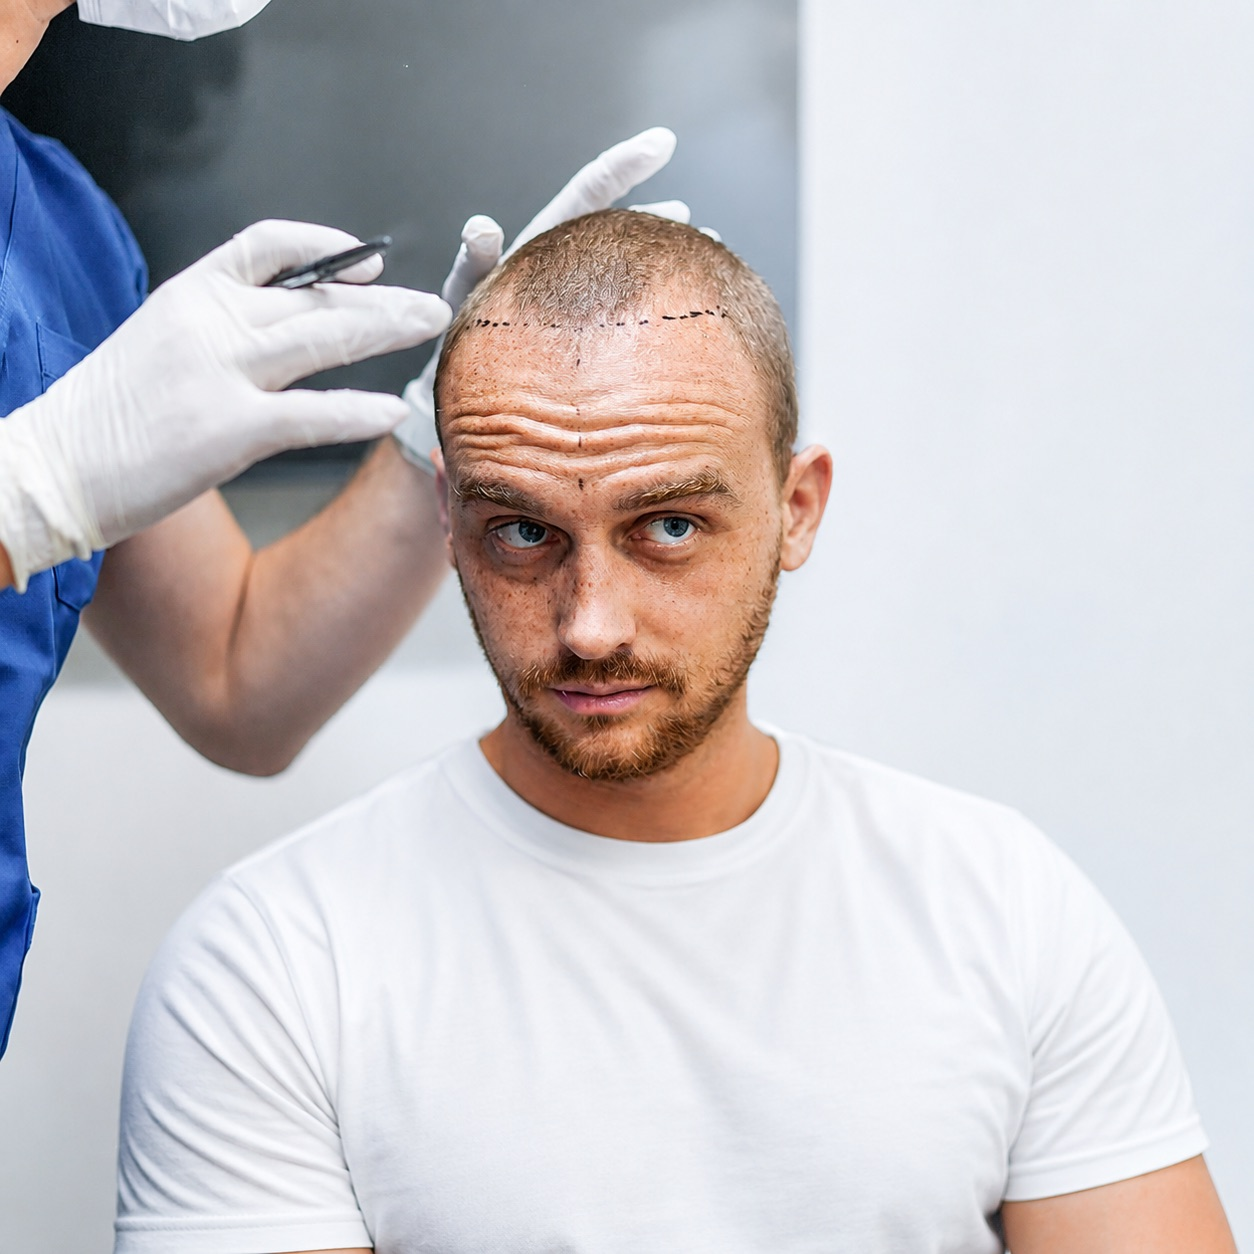
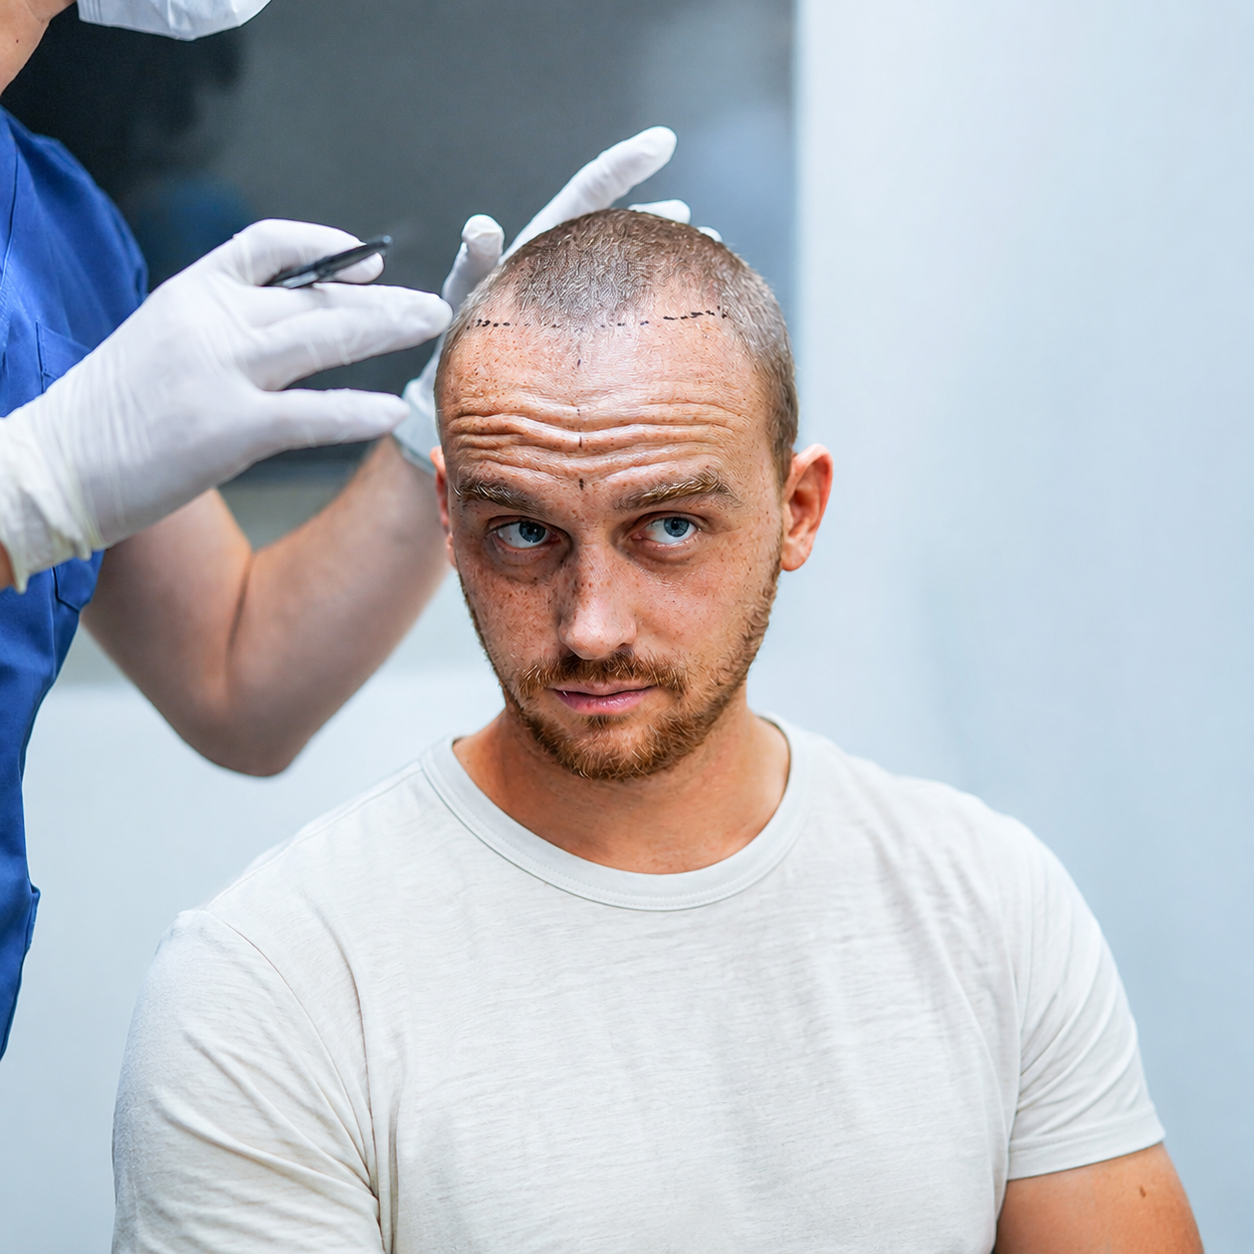
Show hero photo first on mobile, turn case gallery into a carousel
- Hero image now renders above the copy on mobile via order:-1, so the
  patient photo leads instead of trailing the heading and text
- Vorher & Nachher cards become a scroll-snap carousel with prev/next
  arrows that advance two cards at a time (one at the narrowest widths)
- Arrow offset stays inside the container below 1061px to avoid
  horizontal overflow, and sits outside it on wide desktop

diff --git a/index.html b/index.html
@@ -255,6 +255,9 @@
       <symbol id="icon-close" viewBox="0 0 24 24">
         <path d="M6 6l12 12M18 6 6 18" />
       </symbol>
+      <symbol id="icon-chevron" viewBox="0 0 24 24">
+        <path d="M9 6l6 6-6 6" />
+      </symbol>
       <!-- Offizielle WhatsApp-Wortbildmarke (Quelle: Meta Brand Resources) -->
       <symbol id="icon-whatsapp" viewBox="0 0 24 24">
         <path d="M17.472 14.382c-.297-.149-1.758-.867-2.03-.967-.273-.099-.471-.148-.67.15-.197.297-.767.966-.94 1.164-.173.199-.347.223-.644.075-.297-.15-1.255-.463-2.39-1.475-.883-.788-1.48-1.761-1.653-2.059-.173-.297-.018-.458.13-.606.134-.133.298-.347.446-.52.149-.174.198-.298.298-.497.099-.198.05-.371-.025-.52-.075-.149-.669-1.612-.916-2.207-.242-.579-.487-.5-.669-.51-.173-.008-.371-.01-.57-.01-.198 0-.52.074-.792.372-.272.297-1.04 1.016-1.04 2.479 0 1.462 1.065 2.875 1.213 3.074.149.198 2.096 3.2 5.077 4.487.709.306 1.262.489 1.694.625.712.227 1.36.195 1.871.118.571-.085 1.758-.719 2.006-1.413.248-.694.248-1.289.173-1.413-.074-.124-.272-.198-.57-.347m-5.421 7.403h-.004a9.87 9.87 0 01-5.031-1.378l-.361-.214-3.741.982.998-3.648-.235-.374a9.86 9.86 0 01-1.51-5.26c.001-5.45 4.436-9.884 9.888-9.884 2.64 0 5.122 1.03 6.988 2.898a9.825 9.825 0 012.893 6.994c-.003 5.45-4.437 9.884-9.885 9.884m8.413-18.297A11.815 11.815 0 0012.05 0C5.495 0 .16 5.335.157 11.892c0 2.096.547 4.142 1.588 5.945L.057 24l6.305-1.654a11.882 11.882 0 005.683 1.448h.005c6.554 0 11.89-5.335 11.893-11.893a11.821 11.821 0 00-3.48-8.413Z" />
@@ -389,61 +392,70 @@
             </p>
           </div>
 
-          <!-- Fallkarten wie Produktkarten: Foto zuerst, dann Methode, Graftzahl, Zeitraum. -->
-          <div class="card-grid card-grid--3">
-            <article class="card">
-              <img class="card__media" src="assets/images/case-3312.webp" alt="Vorher-Nachher-Beispiel einer Haartransplantation mit 3312 Grafts" loading="lazy" decoding="async" />
-              <div class="card__body">
-                <div class="card__foot">
-                  <button
-                    type="button"
-                    class="link-trigger"
-                    data-lead-trigger
-                    data-topic="Fallbeispiel 01 – DHI, 3.312 Grafts"
-                    data-heading="Vergleichbaren Fall besprechen"
-                    data-subtext="Wir ordnen dieses Beispiel für Ihre Ausgangslage ein."
-                  >
-                    Fall besprechen
-                  </button>
+          <!-- Fallkarten als kaydırılabilir Carousel: zwei Karten pro Bildschirm, per Pfeile weiterschaltbar. -->
+          <div class="case-carousel">
+            <div class="case-carousel__track" data-case-track>
+              <article class="card case-carousel__slide">
+                <img class="card__media" src="assets/images/case-3312.webp" alt="Vorher-Nachher-Beispiel einer Haartransplantation mit 3312 Grafts" loading="lazy" decoding="async" />
+                <div class="card__body">
+                  <div class="card__foot">
+                    <button
+                      type="button"
+                      class="link-trigger"
+                      data-lead-trigger
+                      data-topic="Fallbeispiel 01 – DHI, 3.312 Grafts"
+                      data-heading="Vergleichbaren Fall besprechen"
+                      data-subtext="Wir ordnen dieses Beispiel für Ihre Ausgangslage ein."
+                    >
+                      Fall besprechen
+                    </button>
+                  </div>
                 </div>
-              </div>
-            </article>
+              </article>
 
-            <article class="card">
-              <img class="card__media" src="assets/images/case-3577.webp" alt="Vorher-Nachher-Beispiel einer Haartransplantation mit 3577 Grafts" loading="lazy" decoding="async" />
-              <div class="card__body">
-                <div class="card__foot">
-                  <button
-                    type="button"
-                    class="link-trigger"
-                    data-lead-trigger
-                    data-topic="Fallbeispiel 02 – DHI, 3.577 Grafts"
-                    data-heading="Vergleichbaren Fall besprechen"
-                    data-subtext="Wir ordnen dieses Beispiel für Ihre Ausgangslage ein."
-                  >
-                    Fall besprechen
-                  </button>
+              <article class="card case-carousel__slide">
+                <img class="card__media" src="assets/images/case-3577.webp" alt="Vorher-Nachher-Beispiel einer Haartransplantation mit 3577 Grafts" loading="lazy" decoding="async" />
+                <div class="card__body">
+                  <div class="card__foot">
+                    <button
+                      type="button"
+                      class="link-trigger"
+                      data-lead-trigger
+                      data-topic="Fallbeispiel 02 – DHI, 3.577 Grafts"
+                      data-heading="Vergleichbaren Fall besprechen"
+                      data-subtext="Wir ordnen dieses Beispiel für Ihre Ausgangslage ein."
+                    >
+                      Fall besprechen
+                    </button>
+                  </div>
                 </div>
-              </div>
-            </article>
+              </article>
 
-            <article class="card">
-              <img class="card__media" src="assets/images/case-4176.webp" alt="Vorher-Nachher-Beispiel einer Haartransplantation mit 4716 Grafts" loading="lazy" decoding="async" />
-              <div class="card__body">
-                <div class="card__foot">
-                  <button
-                    type="button"
-                    class="link-trigger"
-                    data-lead-trigger
-                    data-topic="Fallbeispiel 03 – Unique FUE, 4.716 Grafts"
-                    data-heading="Vergleichbaren Fall besprechen"
-                    data-subtext="Wir ordnen dieses Beispiel für Ihre Ausgangslage ein."
-                  >
-                    Fall besprechen
-                  </button>
+              <article class="card case-carousel__slide">
+                <img class="card__media" src="assets/images/case-4176.webp" alt="Vorher-Nachher-Beispiel einer Haartransplantation mit 4716 Grafts" loading="lazy" decoding="async" />
+                <div class="card__body">
+                  <div class="card__foot">
+                    <button
+                      type="button"
+                      class="link-trigger"
+                      data-lead-trigger
+                      data-topic="Fallbeispiel 03 – Unique FUE, 4.716 Grafts"
+                      data-heading="Vergleichbaren Fall besprechen"
+                      data-subtext="Wir ordnen dieses Beispiel für Ihre Ausgangslage ein."
+                    >
+                      Fall besprechen
+                    </button>
+                  </div>
                 </div>
-              </div>
-            </article>
+              </article>
+            </div>
+
+            <button type="button" class="case-carousel__nav case-carousel__nav--prev" data-case-prev aria-label="Vorherige Fälle anzeigen">
+              <svg class="icon" aria-hidden="true"><use href="#icon-chevron"></use></svg>
+            </button>
+            <button type="button" class="case-carousel__nav case-carousel__nav--next" data-case-next aria-label="Weitere Fälle anzeigen">
+              <svg class="icon" aria-hidden="true"><use href="#icon-chevron"></use></svg>
+            </button>
           </div>
 
           <div class="caption-box">

diff --git a/styles.css b/styles.css
@@ -1359,6 +1359,78 @@ h4 {
 }
 
 /* ===========================================================================
+   VORHER & NACHHER – kaydırılabilir Carousel, zwei Karten pro Ansicht
+   =========================================================================== */
+.case-carousel {
+  position: relative;
+}
+
+.case-carousel__track {
+  display: grid;
+  grid-auto-flow: column;
+  grid-auto-columns: calc(50% - var(--gap) / 2);
+  gap: var(--gap);
+  overflow-x: auto;
+  scroll-snap-type: x mandatory;
+  scroll-padding-left: 0;
+  scrollbar-width: none;
+}
+
+.case-carousel__track::-webkit-scrollbar {
+  display: none;
+}
+
+.case-carousel__slide {
+  scroll-snap-align: start;
+  min-width: 0;
+}
+
+.case-carousel__nav {
+  position: absolute;
+  top: 50%;
+  z-index: 2;
+  display: inline-flex;
+  align-items: center;
+  justify-content: center;
+  width: 40px;
+  height: 40px;
+  transform: translateY(-50%);
+  border: 1px solid var(--border-strong);
+  border-radius: 999px;
+  background: var(--surface);
+  color: var(--deep-teal);
+  cursor: pointer;
+}
+
+.case-carousel__nav:hover {
+  background: var(--surface-alt);
+  border-color: var(--deep-teal);
+}
+
+.case-carousel__nav--prev {
+  left: 8px;
+}
+
+.case-carousel__nav--next {
+  right: 8px;
+}
+
+/* Ab hier ist links/rechts vom Container genug Luft, um die Pfeile nach außen zu setzen. */
+@media (min-width: 1061px) {
+  .case-carousel__nav--prev {
+    left: -20px;
+  }
+
+  .case-carousel__nav--next {
+    right: -20px;
+  }
+}
+
+.case-carousel__nav--prev .icon {
+  transform: rotate(180deg);
+}
+
+/* ===========================================================================
    CTA-BÄNDER
    Hell ist der Standard. Dunkel genau einmal, vor den Preisen.
    =========================================================================== */
@@ -2512,6 +2584,11 @@ mark.todo {
     grid-template-columns: 1fr;
   }
 
+  /* Das Klinikfoto steht mobil vor dem Text, nicht danach. */
+  .hero__aside {
+    order: -1;
+  }
+
   .patient-video-frame,
   .trustpilot-digest__intro {
     border-right: 0;
@@ -2711,6 +2788,23 @@ mark.todo {
 @media (max-width: 560px) {
   .container {
     width: min(100% - 22px, var(--container));
+  }
+
+  .case-carousel__track {
+    grid-auto-columns: calc(85% - var(--gap) / 2);
+  }
+
+  .case-carousel__nav {
+    width: 34px;
+    height: 34px;
+  }
+
+  .case-carousel__nav--prev {
+    left: 4px;
+  }
+
+  .case-carousel__nav--next {
+    right: 4px;
   }
 
   .masthead {

diff --git a/script.js b/script.js
@@ -49,6 +49,24 @@ if ((mobileCta || waFloat) && heroSection && "IntersectionObserver" in window) {
   }
 }
 
+/* Vorher-Nachher-Carousel: pro Klick um zwei Kartenbreiten weiterscrollen. */
+const caseTrack = document.querySelector("[data-case-track]");
+const casePrev = document.querySelector("[data-case-prev]");
+const caseNext = document.querySelector("[data-case-next]");
+
+if (caseTrack && casePrev && caseNext) {
+  const scrollByCards = (direction) => {
+    const slide = caseTrack.querySelector(".case-carousel__slide");
+    if (!slide) return;
+    const gap = parseFloat(getComputedStyle(caseTrack).columnGap) || 0;
+    const step = (slide.getBoundingClientRect().width + gap) * 2;
+    caseTrack.scrollBy({ left: direction * step, behavior: "smooth" });
+  };
+
+  casePrev.addEventListener("click", () => scrollByCards(-1));
+  caseNext.addEventListener("click", () => scrollByCards(1));
+}
+
 document.querySelectorAll("[data-video-embed]").forEach((button) => {
   button.addEventListener("click", () => {
     const videoId = button.dataset.videoId;
